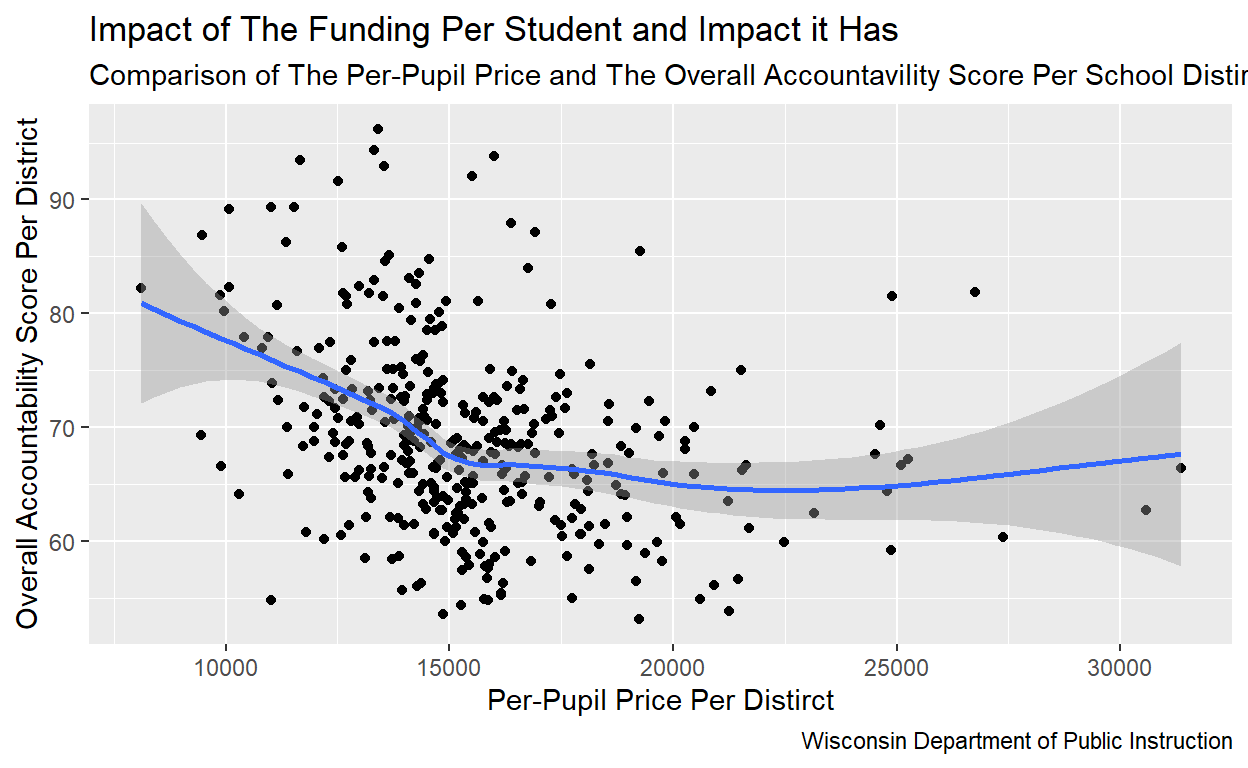
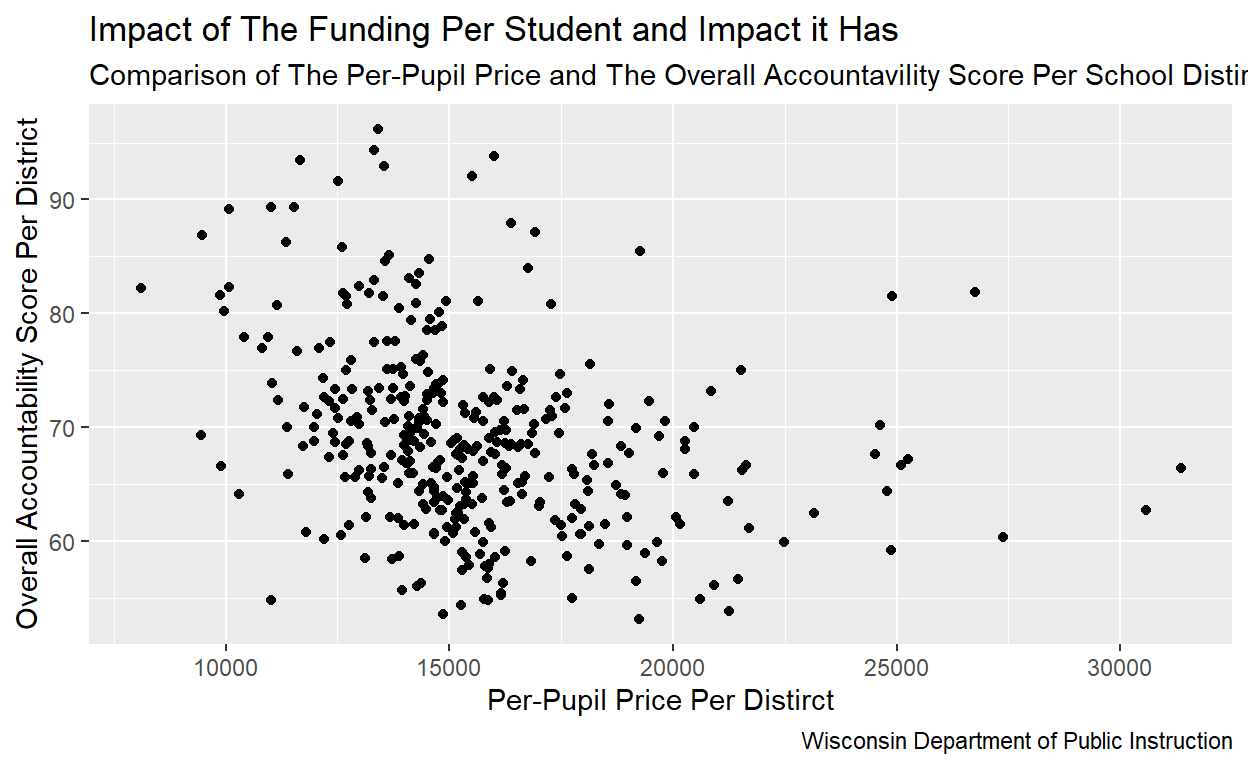
Cleaning up the Code

Changed region(s): [[0.0938, 0.2812, 0.9688, 0.75]]

diff --git a/index.html b/index.html
@@ -116,7 +116,7 @@ code span.wa { color: #5e5e5e; font-style: italic; } /* Warning */
   <!--/radix_placeholder_rmarkdown_metadata-->
   
   <script type="text/json" id="radix-resource-manifest">
-  {"type":"character","attributes":{},"value":["2023-2024_district_report_card.xlsx","cmpcst24 (1).xlsx","compcost_detail_0809_to_2324.xlsx","index_files/anchor-4.2.2/anchor.min.js","index_files/bowser-1.9.3/bowser.min.js","index_files/distill-2.2.21/template.v2.js","index_files/figure-html5/unnamed-chunk-11-1.png","index_files/header-attrs-2.17/header-attrs.js","index_files/header-attrs-2.30/header-attrs.js","index_files/jquery-3.6.0/jquery-3.6.0.js","index_files/jquery-3.6.0/jquery-3.6.0.min.js","index_files/jquery-3.6.0/jquery-3.6.0.min.map","index_files/popper-2.6.0/popper.min.js","index_files/tippy-6.2.7/tippy-bundle.umd.min.js","index_files/tippy-6.2.7/tippy-light-border.css","index_files/tippy-6.2.7/tippy.css","index_files/tippy-6.2.7/tippy.umd.min.js","index_files/webcomponents-2.0.0/webcomponents.js"]}
+  {"type":"character","attributes":{},"value":["2023-2024_district_report_card.xlsx","cmpcst24 (1).xlsx","compcost_detail_0809_to_2324.xlsx","index_files/anchor-4.2.2/anchor.min.js","index_files/bowser-1.9.3/bowser.min.js","index_files/distill-2.2.21/template.v2.js","index_files/figure-html5/unnamed-chunk-11-1.png","index_files/figure-html5/unnamed-chunk-13-1.png","index_files/header-attrs-2.17/header-attrs.js","index_files/header-attrs-2.30/header-attrs.js","index_files/jquery-3.6.0/jquery-3.6.0.js","index_files/jquery-3.6.0/jquery-3.6.0.min.js","index_files/jquery-3.6.0/jquery-3.6.0.min.map","index_files/popper-2.6.0/popper.min.js","index_files/tippy-6.2.7/tippy-bundle.umd.min.js","index_files/tippy-6.2.7/tippy-light-border.css","index_files/tippy-6.2.7/tippy.css","index_files/tippy-6.2.7/tippy.umd.min.js","index_files/webcomponents-2.0.0/webcomponents.js"]}
   </script>
   <!--radix_placeholder_navigation_in_header-->
   <!--/radix_placeholder_navigation_in_header-->
@@ -1544,13 +1544,10 @@ code span.wa { color: #5e5e5e; font-style: italic; } /* Warning */
 </div>
 
 <div class="d-article">
-<h2 id="schools-districts-performace-and-per-pupil-score-does-the-amount-of-money-spent-increase-quality-of-education">Schools Districts Performace and Per-Pupil Score: Does the Amount of Money Spent Increase Quality of Education</h2>
-<p>This project is looking at the impact that the amount of money a school district spends on an individual student, and the report card score of a individual school district.</p>
-<h1 id="hypothesis">Hypothesis</h1>
-<p>Does the average per-pupil price, the average amount of money a school district spends per student, in Wisconsin affect the average school district report card score.</p>
-<h2 id="project-thoughts">Project thoughts</h2>
-<p>Looking at the differences between property amount a school district spends per student, and seeing if that has an impact on the performance of students. Seeing if more money means better school and at what degree is the difference is caused by income of differing school districts.</p>
-<p>Does the average per-pupil price, that being the average amount of money a school district spends, in Wisconsin affect the average report card score school for that district. My hypothesis is that the higher a per-pupil price is, the higher the average student performance will be in said district. This is because the more money a school district spends on an individual student means that the students will have more resources available to them. This will then lead to a higher performance of students in said district. To better understand this I will be looking at two variables, the per-pupil price and the average report card score for the 2023-2024 school year. The explanatory variable will be the per-pupi l price. This variable will show the average amount of money a Wisconsin public school district is spending on one student. This variable is obtained by looking at the Total Cost of Education, also known as the TEC, then dividing it by the membership of a given district. The variable of interest will be the average report card score per district. The report card score is the average performance of students in a public school district. This score is based on multiple factors including, performance in subjects, growth of students in different subjects, the ability to close the achievement gaps, and on track and post secondary readiness of students. This score is on 0.0 - 100.00 point scale, with 0.0 being the worst a school distinct can do, and 100.00 being the best. Both variables are taken from the Department of Public Instruction, which by law collects and publishes this data. An outcome that would support my hypothesis would be one that showcases the school districts that have the highest per-pupil price, and would also have the highest average report card score. There are two potential outcomes that would disprove my hypothesis. One would be one that showcases that having a higher per-pupil price would show a lower report card score. Suggesting that the schools that pay the most per student are those with a lower report card score trying to increase it. The second outcome would be one that per-pupil price doesn’t impact the average report card score. Showing there isn’t a relationship between the two variables and would imply another factor for student performance.</p>
+<h3 id="schools-districts-performace-and-per-pupil-score-does-the-amount-of-money-spent-increase-quality-of-education">Schools Districts Performace and Per-Pupil Score: Does the Amount of Money Spent Increase Quality of Education</h3>
+<h2 id="introduction">Introduction</h2>
+<p>For this research project we are looking what the impact of funding has in performance public school districts. To understand the relationship between the funding and the performance of a school district we will be looking at two variables. The <code>Per-Pupil Price</code>, which is the Total Current Education Cost, the total amount of money a school district spends in total decided by the total amount of students/members in a district, and the <code>Overall Accountability Score,</code> a comprehensive measurement of a school performance, this included both achievement: this looks at grades, performance on state tests, and resources to second-education and growth: which includes academic growth, students backgrounds in education, and impact a school has on student outcomes. This leads to my prediction that the higher Per-Pupil Price a school has, the higher the Overall accountability score will be. This information is interesting because public school funding is one a hot-buttoned issue, with many arguing that the lack of funding a school has the worse the students do. For the purposes of this research all data comes from the Wisconsin department of Public Instruction, and all is only looking at the Per-Pupil Price and Overall Accountability scores of Wisconsin school districts.</p>
+<p>Does the average per-pupil price, that being the average amount of money a school district spends, in Wisconsin affect the average report card score school for that district. My hypothesis is that the higher a per-pupil price is, the higher the average student performance will be in said district. This is because the more money a school district spends on an individual student means that the students will have more resources available to them. This will then lead to a higher performance of students in said district. To better understand this I will be looking at two variables, the per-pupil price and the average report card score for the 2023-2024 school year. The explanatory variable will be the per-pupil price. This variable will show the average amount of money a Wisconsin public school district is spending on one student. This variable is obtained by looking at the Total Cost of Education, also known as the TEC, then dividing it by the membership of a given district. The variable of interest will be the average report card score per district. The report card score is the average performance of students in a public school district. This score is based on multiple factors including, performance in subjects, growth of students in different subjects, the ability to close the achievement gaps, and on track and post secondary readiness of students. This score is on 0.0 - 100.00 point scale, with 0.0 being the worst a school distinct can do, and 100.00 being the best. Both variables are taken from the Department of Public Instruction, which by law collects and publishes this data. An outcome that would support my hypothesis would be one that showcases the school districts that have the highest per-pupil price, and would also have the highest average report card score. There are two potential outcomes that would disprove my hypothesis. One would be one that showcases that having a higher per-pupil price would show a lower report card score. Suggesting that the schools that pay the most per student are those with a lower report card score trying to increase it. The second outcome would be one that per-pupil price doesn’t impact the average report card score. Showing there isn’t a relationship between the two variables and would imply another factor for student performance.</p>
 <h2 id="data-being-used-for-my-reasearch-project">Data being used for My Reasearch Project</h2>
 <div class="layout-chunk" data-layout="l-body">
 <div class="sourceCode">
@@ -1784,7 +1781,6 @@ Now that its fixed we can calculate the Per-Pupil Price, which the Total Current
 <span>  <span class='fu'><a href='https://ggplot2.tidyverse.org/reference/ggplot.html'>ggplot</a></span><span class='op'>(</span><span class='fu'><a href='https://ggplot2.tidyverse.org/reference/aes.html'>aes</a></span><span class='op'>(</span>x <span class='op'>=</span> <span class='va'>`Per-Pupil Price`</span>,</span>
 <span>             y <span class='op'>=</span> <span class='va'>`Overall Accountability Score`</span><span class='op'>)</span><span class='op'>)</span> <span class='op'>+</span> </span>
 <span>  <span class='fu'><a href='https://ggplot2.tidyverse.org/reference/geom_point.html'>geom_point</a></span><span class='op'>(</span><span class='op'>)</span> <span class='op'>+</span></span>
-<span>  <span class='fu'><a href='https://ggplot2.tidyverse.org/reference/geom_smooth.html'>geom_smooth</a></span><span class='op'>(</span><span class='op'>)</span> <span class='op'>+</span></span>
 <span>  <span class='fu'><a href='https://ggplot2.tidyverse.org/reference/labs.html'>labs</a></span><span class='op'>(</span></span>
 <span>    title <span class='op'>=</span> <span class='st'>"Impact of The Funding Per Student and Impact it Has"</span>,</span>
 <span>    subtitle <span class='op'>=</span> <span class='st'>"Comparison of The Per-Pupil Price and The Overall Accountavility Score Per School Distirct"</span>,</span>
@@ -1841,9 +1837,32 @@ Now that its fixed we can calculate the Per-Pupil Price, which the Total Current
 </tbody>
 </table>
 </div>
+<h1 id="regression">Regression</h1>
+<div class="layout-chunk" data-layout="l-body">
+<div class="sourceCode">
+<pre class="sourceCode r"><code class="sourceCode r"><span><span class='va'>school_district_graph</span> <span class='op'>+</span></span>
+<span>  <span class='fu'><a href='https://ggplot2.tidyverse.org/reference/geom_smooth.html'>geom_smooth</a></span><span class='op'>(</span>method <span class='op'>=</span> <span class='st'>"lm"</span>, se <span class='op'>=</span> <span class='cn'>FALSE</span>, color <span class='op'>=</span> <span class='st'>"brown4"</span>, size <span class='op'>=</span> <span class='fl'>1.5</span><span class='op'>)</span></span></code></pre>
+</div>
+<p><img src="index_files/figure-html5/unnamed-chunk-13-1.png" alt="" width="624" /></p>
+</div>
+<div class="layout-chunk" data-layout="l-body">
+<div class="sourceCode">
+<pre class="sourceCode r"><code class="sourceCode r"><span><span class='va'>tcec_reg</span> <span class='op'>&lt;-</span> <span class='fu'><a href='https://rdrr.io/r/stats/lm.html'>lm</a></span><span class='op'>(</span><span class='va'>`Overall Accountability Score`</span> <span class='op'>~</span> <span class='va'>`Per-Pupil Price`</span> , data <span class='op'>=</span> <span class='va'>school_district</span><span class='op'>)</span></span>
+<span><span class='va'>tcec_reg</span></span></code></pre>
+</div>
+<pre><code>
+Call:
+lm(formula = `Overall Accountability Score` ~ `Per-Pupil Price`, 
+    data = school_district)
+
+Coefficients:
+      (Intercept)  `Per-Pupil Price`  
+       81.2745581         -0.0007937  </code></pre>
+</div>
+<p>When looking at the slope and intercept we can see that the more money that is given to it is predicted to get 0.0007937 percent worse. This means that the decrease of the slope is so small that it likely is not have a significant impact. This implied that the more money that you give to a school, it is not expected to make a diffrence.</p>
 <h2 id="looking-at-the-results">Looking at the Results</h2>
 <p>When looking at the results we can see that for the average the groups that receive the most money are the groups in the middle, that being Meets Expectations and Exceeds Expectations. While the groups that have lowest per-pupil average are Significantly Exceeds and Meets few expectations. While the results do not support my hypothesis it also doesn’t fully disprove it. It suggest that their is a disparity of the funding, but the full picture does change since the group with the least amount per-pupil average is those who have the highest scores.</p>
-<div class="sourceCode" id="cb9"><pre class="sourceCode r distill-force-highlighting-css"><code class="sourceCode r"></code></pre></div>
+<div class="sourceCode" id="cb10"><pre class="sourceCode r distill-force-highlighting-css"><code class="sourceCode r"></code></pre></div>
 <!--radix_placeholder_article_footer-->
 <!--/radix_placeholder_article_footer-->
 </div>
